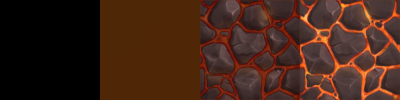
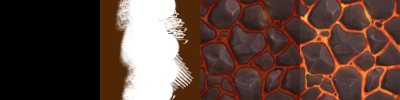
Background independente com parallax e wrap circular

Changed region(s): [[0.27, 0.0, 0.48, 1.0]]

diff --git a/src/State.cpp b/src/State.cpp
@@ -78,15 +78,28 @@ int PulseColor(float dtR, int combo) {
 
 void State::RenderLight() const {
     SDL_Renderer* renderer = Game::GetInstance()->GetRenderer();
-    static SDL_Texture* texTarget = SDL_CreateTexture(
+
+    // Rendering default layer to texture
+    static SDL_Texture* texDefault = SDL_CreateTexture(
+        renderer, SDL_PIXELFORMAT_RGBA8888, SDL_TEXTUREACCESS_TARGET,
+        Camera::screenSize.x, Camera::screenSize.y);
+    SDL_SetRenderTarget(renderer, texDefault);
+    SDL_SetRenderDrawColor(renderer, 0, 0, 0, 0);
+    SDL_RenderClear(renderer);
+
+    for (auto obj : objectArray) {
+        obj->RenderOrder(Common::Layer::DEFAULT);
+    }
+
+    // Rendering to texture (Lights to an texture)
+    static SDL_Texture* texLight = SDL_CreateTexture(
         renderer, SDL_PIXELFORMAT_RGBA8888, SDL_TEXTUREACCESS_TARGET,
         Camera::screenSize.x, Camera::screenSize.y);
 
-    // Rendering to texture (Lights to an intermediary texture)
-    SDL_SetRenderTarget(renderer, texTarget);
+    SDL_SetRenderTarget(renderer, texLight);
 
     int color =
-        50 + PulseColor(input.GetDeltaRhythm(), Game::GetInstance()->combo);
+        30 + PulseColor(input.GetDeltaRhythm(), Game::GetInstance()->combo);
     SDL_SetRenderDrawColor(renderer, color, color, color * 0.8, 255);
     SDL_RenderClear(renderer);
     SDL_SetRenderDrawBlendMode(renderer, SDL_BLENDMODE_ADD);
@@ -95,18 +108,22 @@ void State::RenderLight() const {
     }
 
     // Rendering the texture to screen (multiply light texture to screen)
-    SDL_SetRenderTarget(renderer, NULL);
+    SDL_SetRenderTarget(renderer, texDefault);
 
+    SDL_SetTextureBlendMode(texDefault, SDL_BLENDMODE_MOD);
     SDL_SetRenderDrawBlendMode(renderer, SDL_BLENDMODE_MOD);
-    SDL_SetTextureBlendMode(texTarget, SDL_BLENDMODE_MOD);
-    SDL_RenderCopy(renderer, texTarget, NULL, NULL);
+    SDL_SetTextureBlendMode(texLight, SDL_BLENDMODE_MOD);
+    SDL_RenderCopy(renderer, texLight, NULL, NULL);
 
+    SDL_SetRenderTarget(renderer, NULL);
     SDL_SetRenderDrawBlendMode(renderer, SDL_BLENDMODE_BLEND);
+    SDL_SetTextureBlendMode(texDefault, SDL_BLENDMODE_BLEND);
+    SDL_RenderCopy(renderer, texDefault, NULL, NULL);
 }
 
 void State::RenderArray() const {
     for (auto obj : objectArray) {
-        obj->RenderOrder(Common::Layer::DEFAULT);
+        obj->RenderOrder(Common::Layer::BG);
     }
 
     RenderLight();

diff --git a/src/Parallax.cpp b/src/Parallax.cpp
@@ -1,0 +1,29 @@
+#include "Parallax.h"
+#include "Game.h"
+#include "Resources.h"
+
+void bgCircularY::Open(const std::string &file) {
+    texture = Resources::GetImage(file);
+
+    SDL_QueryTexture(texture.get(), nullptr, nullptr, &width, &height);
+    associated.box.size.Set(width, height);
+}
+
+void bgCircularY::Render(Common::Layer layer) const {
+    if (bgCircularY::texture) {
+        int linit = (Camera::pos.y + associated.box.y) / associated.box.h;
+        int lmax = linit + Camera::screenSize.y / associated.box.h;
+        if (Camera::screenSize.y + Camera::pos.y + associated.box.y >
+            (lmax + 1) * associated.box.h)
+            lmax++;
+
+        for (int i = linit; i <= lmax; i++) {
+            Rect dst(associated.box.pos.x, associated.box.pos.y + i * height,
+                     (double)width, (double)height);
+            SDL_Rect dstRect = dst;
+            SDL_Rect clipRect = Rect(Vec2(0, 0), associated.box.size);
+            SDL_RenderCopy(Game::GetInstance()->GetRenderer(), texture.get(),
+                           &clipRect, &dstRect);
+        }
+    }
+}

diff --git a/src/StageState.cpp b/src/StageState.cpp
@@ -9,6 +9,7 @@
 #include "Game.h"
 #include "Light.h"
 #include "MiniTileMap.h"
+#include "Parallax.h"
 #include "Sprite.h"
 #include "Vec2.h"
 
@@ -31,7 +32,7 @@ void StageState::noEffect(void *udata, Uint8 *stream, int len) {
 }
 
 void StageState::LoadAssets() {
-    Camera::offset.Set(-(Camera::screenSize.x - 600 - 120), -100);
+    Camera::offset.Set(-(Camera::screenSize.x - 600 - 120), 0);
     input.title = false;
 
     GameObject *gm =
@@ -70,6 +71,13 @@ void StageState::LoadAssets() {
     bigAlan->AddComponent(new BigAlan(*bigAlan));
     bigAlan->worldReference = false;
     bigAlan->box.pos = {0, 460};
+
+    GameObject *backG = new GameObject(Common::Layer::BG);
+    backG->worldReference = false;
+    objectArray.emplace_back(backG);
+    backG->AddComponent(new bgCircularY(*backG, "assets/img/bg.png"));
+    backG->AddComponent(new Parallax(*backG, 0.5));
+    backG->box.pos = {304, 0};
 
     music.Open("assets/audio/marmota.ogg");
     count = 0;

diff --git a/include/Parallax.h b/include/Parallax.h
@@ -1,0 +1,35 @@
+#ifndef PARALLAX_H
+#define PARALLAX_H
+#include "Camera.h"
+#include "Component.h"
+
+class Parallax : public Component {
+  public:
+    Parallax(GameObject& associated, float factor = 1)
+        : Component(associated), factor(factor) {}
+
+    void Update(float dt) { associated.box.pos.y = -Camera::pos.y * factor; }
+    void RhythmUpdate() {}
+    void Render(Common::Layer layer) const {}
+
+  private:
+    float factor;
+};
+
+class bgCircularY : public Component {
+  public:
+    bgCircularY(GameObject& associated, const std::string& file)
+        : Component(associated) {
+        Open(file);
+    }
+
+    void Open(const std::string& file);
+    void Update(float dt) {}
+    void RhythmUpdate() {}
+    void Render(Common::Layer layer) const;
+
+  private:
+    std::shared_ptr<SDL_Texture> texture = nullptr;
+    int width = 0, height = 0;
+};
+#endif  // PARALLAX_H

diff --git a/src/Camera.cpp b/src/Camera.cpp
@@ -47,16 +47,16 @@ void Camera::Update(float dt) {
 
         case Camera::NONE:
             if (InputManager::GetInstance().KeyDown(SDL_SCANCODE_RIGHT)) {
-                offset.x += speed.x * dt;
+                offset.x += speed.x * dt * 10;
             }
             if (InputManager::GetInstance().KeyDown(SDL_SCANCODE_LEFT)) {
-                offset.x -= speed.x * dt;
+                offset.x -= speed.x * dt * 10;
             }
             if (InputManager::GetInstance().KeyDown(SDL_SCANCODE_UP)) {
-                offset.y -= speed.y * dt;
+                offset.y -= speed.y * dt * 10;
             }
             if (InputManager::GetInstance().KeyDown(SDL_SCANCODE_DOWN)) {
-                offset.y += speed.y * dt;
+                offset.y += speed.y * dt * 10;
             }
             break;
     }
